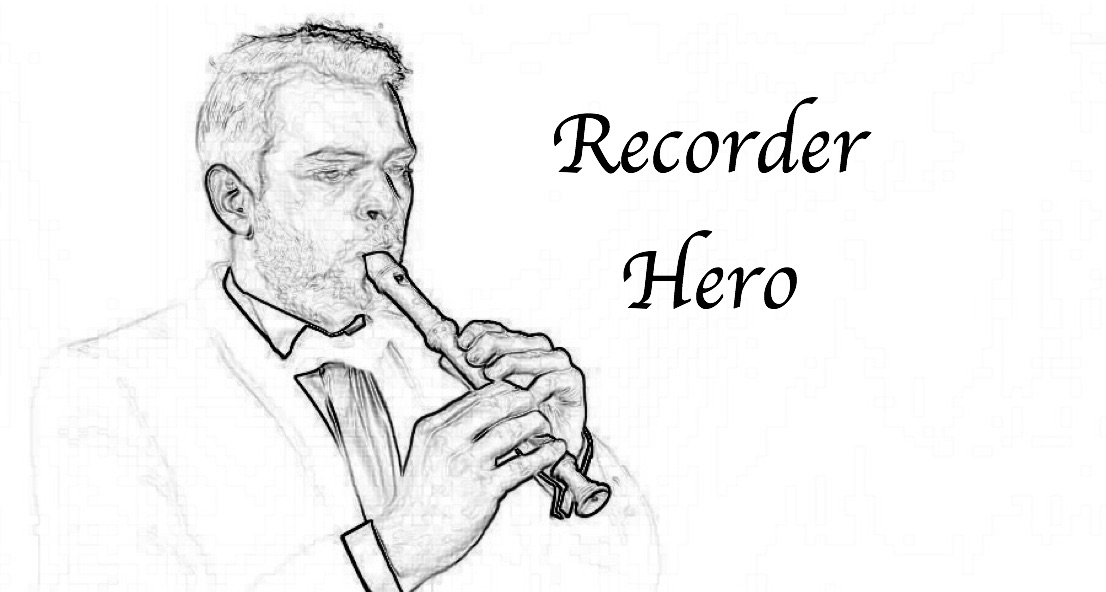
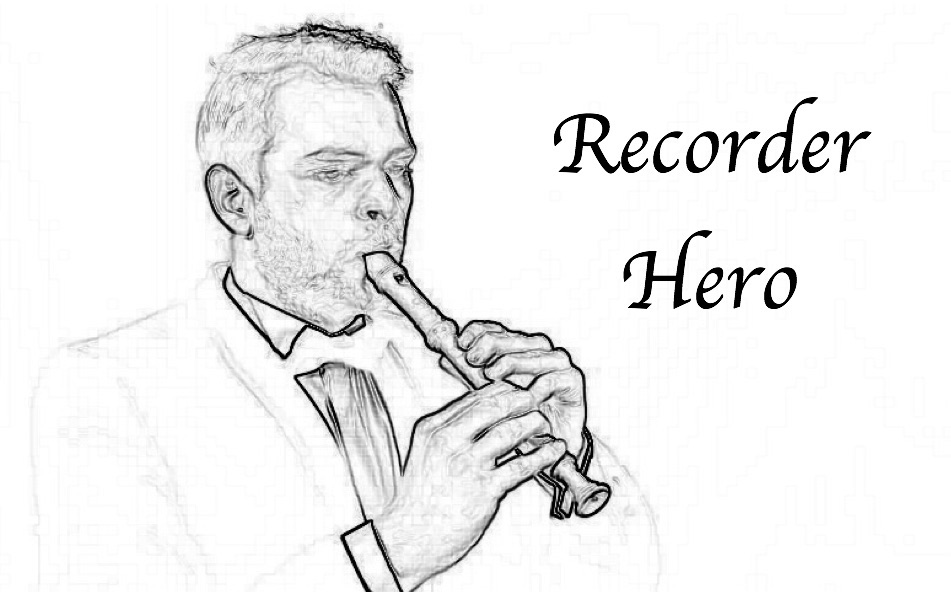
Main Menu improvements

diff --git a/PythonGameplay/MainMenu.py b/PythonGameplay/MainMenu.py
@@ -19,38 +19,48 @@ cv = Canvas(tk, width=cvWidth, height=cvHeight)
 tk.title("Recorder Hero")
 cv.pack()
 radioFrame = Frame(tk)
+recorderHeroTitleImage = ImageTk.PhotoImage(image=Image.open('recorderHero-500.jpg'))
+
 #default difficulty
 songDifficulty = Song.Difficulty.EASY
+songDifficulty_radioVariable = StringVar(value=songDifficulty.name)
+
 
 def createMainMenu():
+    global songDifficulty_radioVariable
     radioFrame.pack()
 
-    selectedDifficulty = StringVar()
+    rbEasy = Radiobutton(radioFrame,
+        text="Easy\n\n", variable=songDifficulty_radioVariable, value="EASY",
+        font=('Times New Roman', 15),
+        command=lambda: difficultyChange(Song.Difficulty.EASY))
 
-    rbEasy = Radiobutton(radioFrame, text="Easy", variable=selectedDifficulty, value="E", command=lambda: difficultyChange(Song.Difficulty.EASY))
+    rbMedium = Radiobutton(radioFrame,
+        text="Medium\n\n", variable=songDifficulty_radioVariable, value="MEDIUM",
+        font=('Times New Roman', 15),
+        command=lambda: difficultyChange(Song.Difficulty.MEDIUM))
+
+    rbHard = Radiobutton(radioFrame,
+        text="Hard\n\n", variable=songDifficulty_radioVariable, value="HARD",
+        font=('Times New Roman', 15),
+        command=lambda: difficultyChange(Song.Difficulty.HARD))
+
     rbEasy.grid(row=1, column=1)
-    rbEasy.focus_set()
-
-    rbMedium = Radiobutton(radioFrame, text="Medium", variable=selectedDifficulty, value="M", command=lambda: difficultyChange(Song.Difficulty.MEDIUM))
     rbMedium.grid(row=1, column=2)
-
-    rbHard = Radiobutton(radioFrame, text="Hard", variable=selectedDifficulty, value="H", command=lambda: difficultyChange(Song.Difficulty.HARD))
     rbHard.grid(row=1, column=3)
 
-
-    #titleDisplay = cv.create_text(cvWidth / 2, 100, text='Recorder Hero', font=('Verdana', 36))
-    recorderHeroTitleImage = Image.open('recorderHero.jpg')
-    print(recorderHeroTitleImage)
-    recorderHeroTitleImage = ImageTk.PhotoImage(image=recorderHeroTitleImage, size=100)
-    titleDisplay = cv.create_image(cvWidth / 2, 100, image=recorderHeroTitleImage)
+    global recorderHeroTitleImage
+    cv.create_image(250, 155, image=recorderHeroTitleImage)
 
     for (index, song) in enumerate(list(Song.Song)):
-        songButton = Button(text=song.name.replace('_', ' '), command=lambda song=song: startGameplayForSong(song), font=('Verdana', 16))
-        window = cv.create_window(cvWidth / 2, 250 + (50 * index), window=songButton, width=300)
+        songButton = Button(text=song.name.replace('_', ' '), command=lambda song=song: startGameplayForSong(song), font=('Times New Roman', 15))
+        window = cv.create_window(cvWidth / 2, 350 + (50 * index), window=songButton, width=350)
 
 def difficultyChange(newSongDifficulty):
-    global songDifficulty
+    global songDifficulty, songDifficulty_radioVariable
     songDifficulty = newSongDifficulty
+    songDifficulty_radioVariable.set(newSongDifficulty.name)
+    print(songDifficulty_radioVariable.get())
 
 def startGameplayForSong(song):
     cv.delete("all")

diff --git a/PythonGameplay/MainGameplay.py b/PythonGameplay/MainGameplay.py
@@ -50,9 +50,9 @@ def startGame(canvas, song, difficulty, startTime, cvWidth, cvHeight, ballSize, 
     noteLine = canvas.create_line(cvWidth/5, 0, cvWidth/5, cvHeight, width='25', fill='gray')
     tempLine = canvas.create_line(cvWidth/5, 0, cvWidth/5, cvHeight, fill='black')
     pointDisplay = canvas.create_text(cvWidth - 80, 20, text='Points: 0')
-    finalAccuracyDisplay = canvas.create_text(cvWidth - 200, 200, font=('Verdana', 36), text='')
+    finalAccuracyDisplay = canvas.create_text(cvWidth - 200, 200, font=('Times New Roman', 36), text='')
     accuracy = 0
-    accuracyDisplay = canvas.create_text(cvWidth - 80, 40, text='Accuracy: ' + str(accuracy) + '%')
+    accuracyDisplay = canvas.create_text(cvWidth - 80, 40, text='Accuracy: ' + str(accuracy) + '%', font=('Times New Roman', 15))
     darkLineBallList = []
 
     #create dark lineball markers

diff --git a/PythonGameplay/Song.py b/PythonGameplay/Song.py
@@ -5,8 +5,8 @@ from enum import Enum, auto
 
 class Difficulty(Enum):
     EASY = 4.0
-    MEDIUM = 2.0
-    HARD = 1.0
+    MEDIUM = 3.0
+    HARD = 2.0
 
 class Song(Enum):
     Hot_Cross_Buns = auto()
